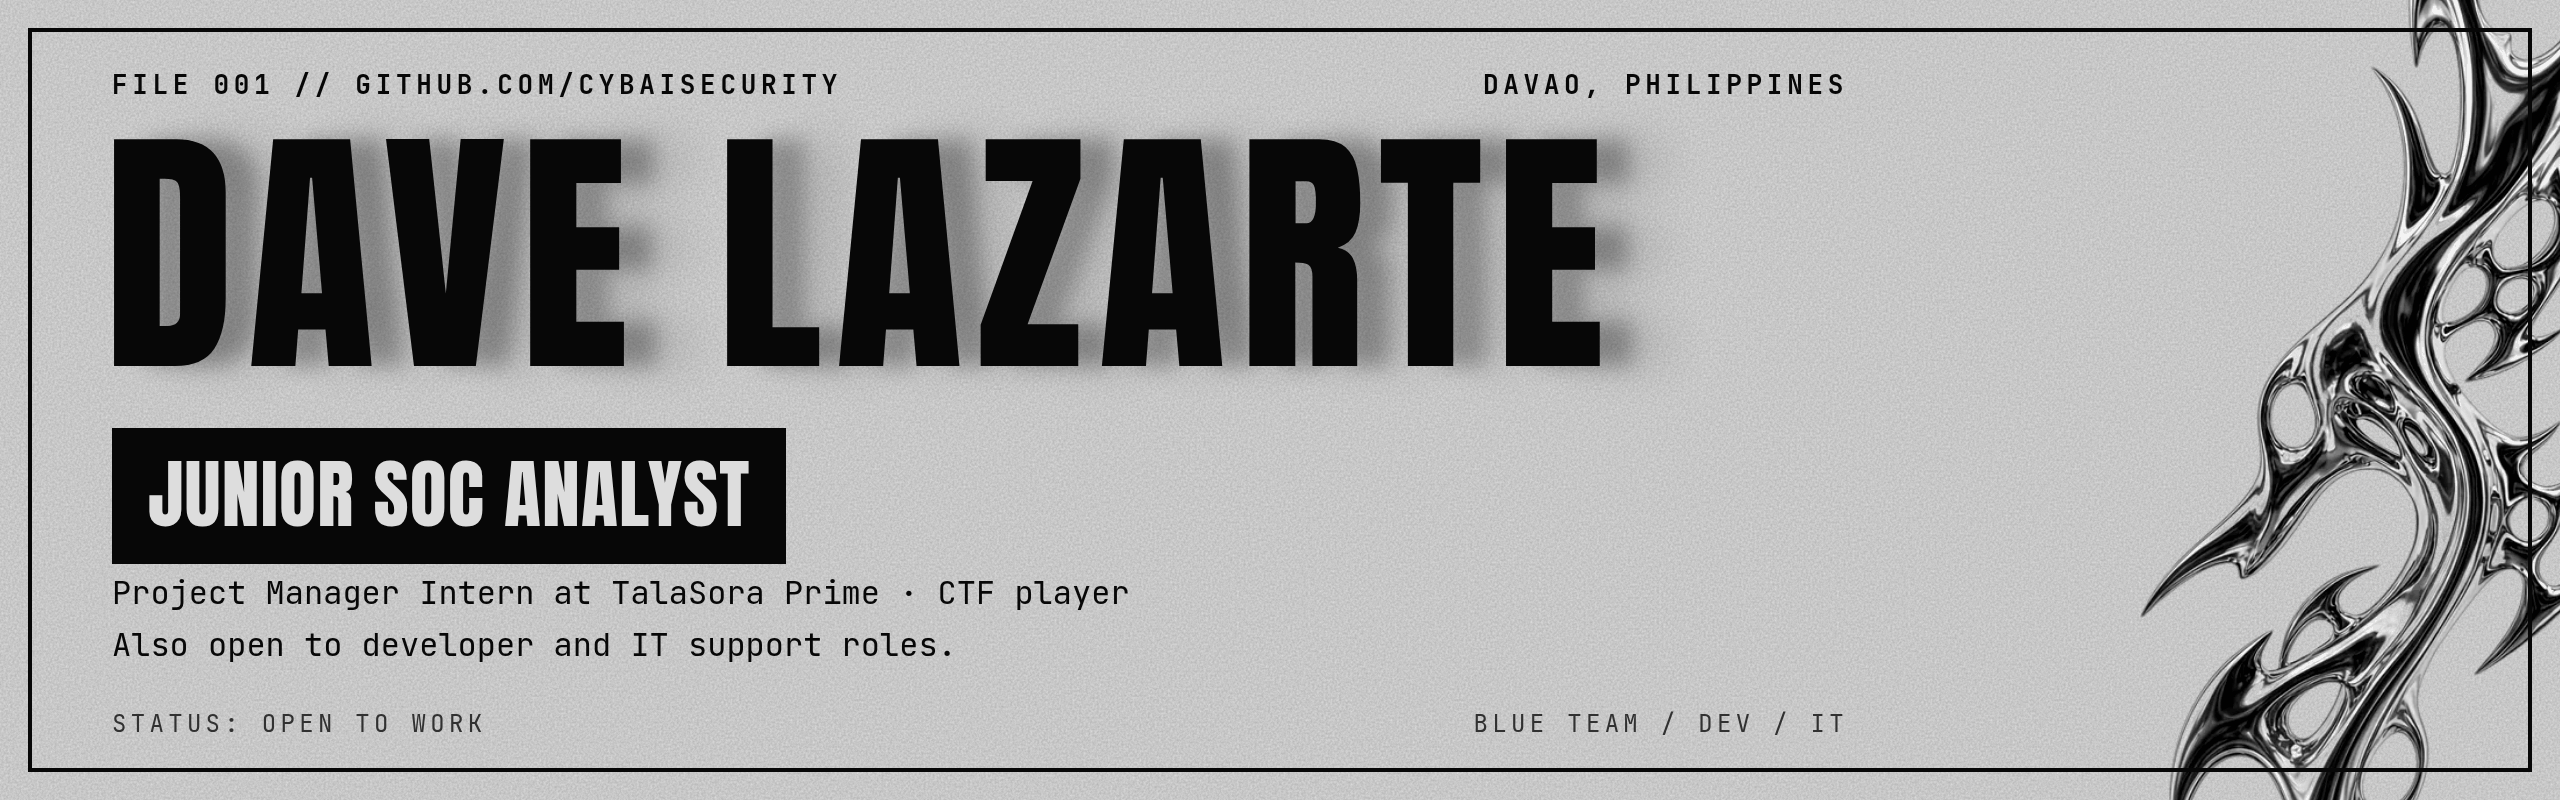
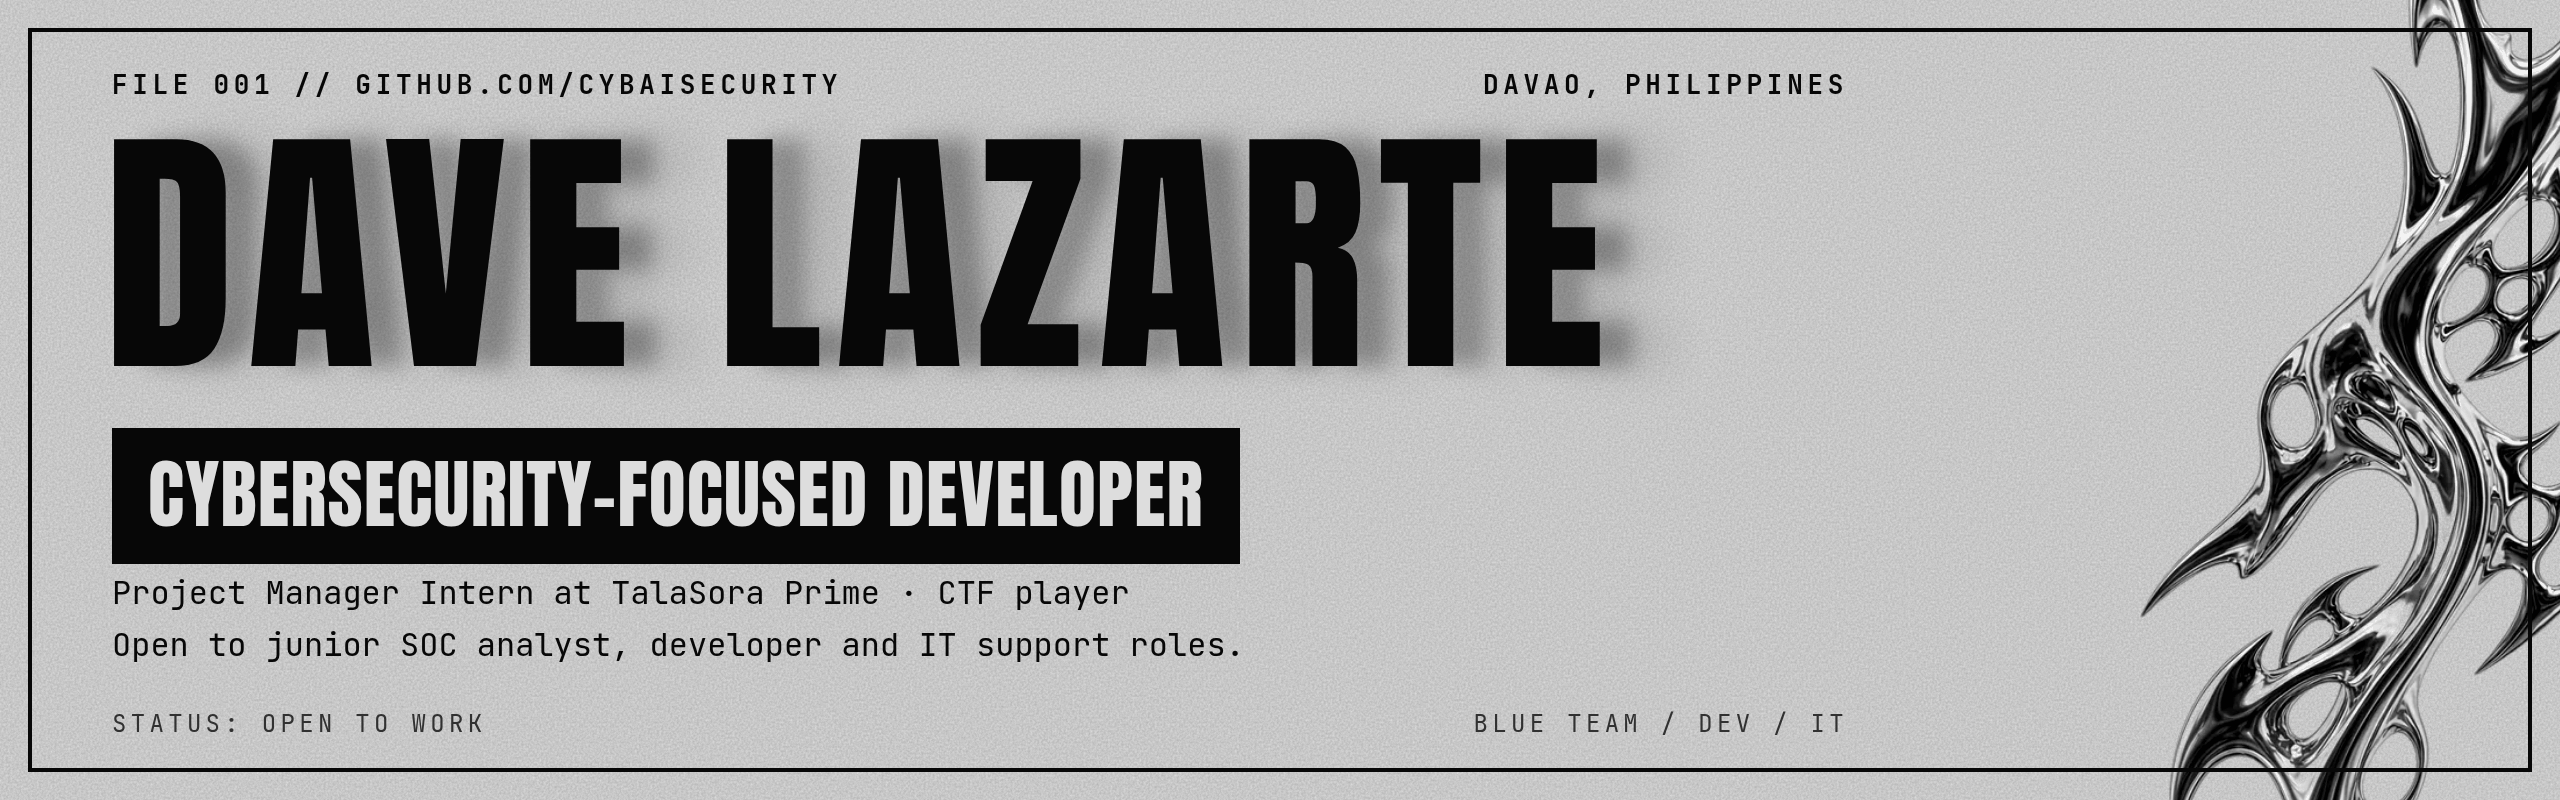
Retitle to Cybersecurity-Focused Developer; open to junior SOC analyst, developer and IT support roles

Changed region(s): [[0.0312, 0.5312, 0.5, 0.7188], [0.0312, 0.7812, 0.4688, 0.8438]]

diff --git a/README.md b/README.md
@@ -1,5 +1,5 @@
 <p align="center">
-  <img src="banner.png" alt="Dave Lazarte, Junior SOC Analyst. Project Manager Intern at TalaSora Prime and CTF player, also open to developer and IT support roles." width="100%">
+  <img src="banner.png" alt="Dave Lazarte, cybersecurity-focused developer. Project Manager Intern at TalaSora Prime and CTF player, open to junior SOC analyst, developer and IT support roles." width="100%">
 </p>
 
 <p align="center">
@@ -12,9 +12,9 @@
 
 ### Hi, I'm Dave
 
-Junior SOC analyst from Davao, Philippines. I lead a 12-person intern team and support the infrastructure at TalaSora Prime, an early-stage venture. Outside work, I compete in CTFs and enjoy exploring new technology.
+Cybersecurity-focused developer from Davao, Philippines. I lead a 12-person intern team and support the infrastructure at TalaSora Prime, an early-stage venture. Outside work, I compete in CTFs and enjoy exploring new technology.
 
-I'm looking for Junior SOC Analyst roles, and I'm also open to developer and IT support work.
+I'm open to Junior SOC Analyst, developer and IT support roles.
 
 ### Now
 
